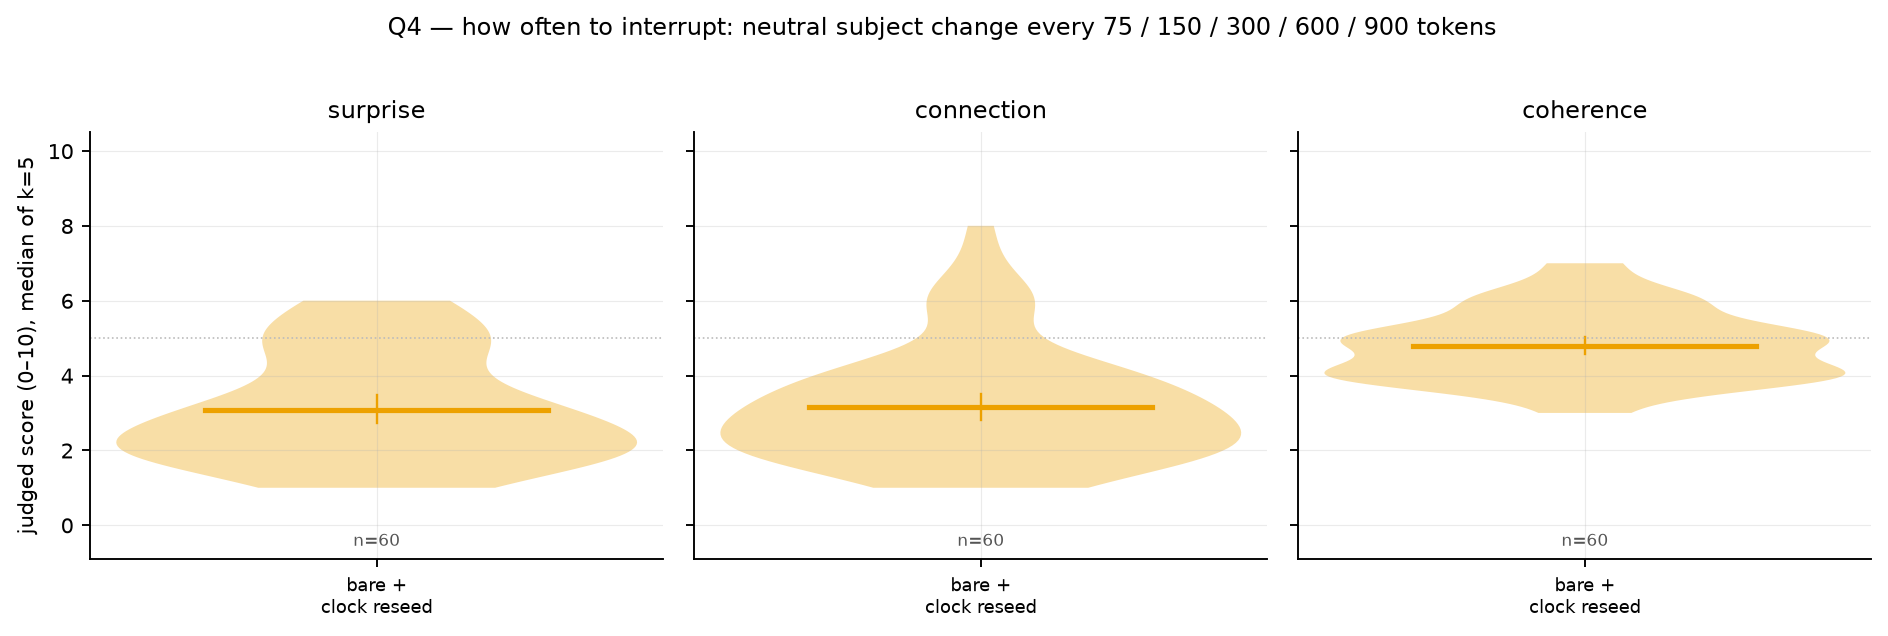
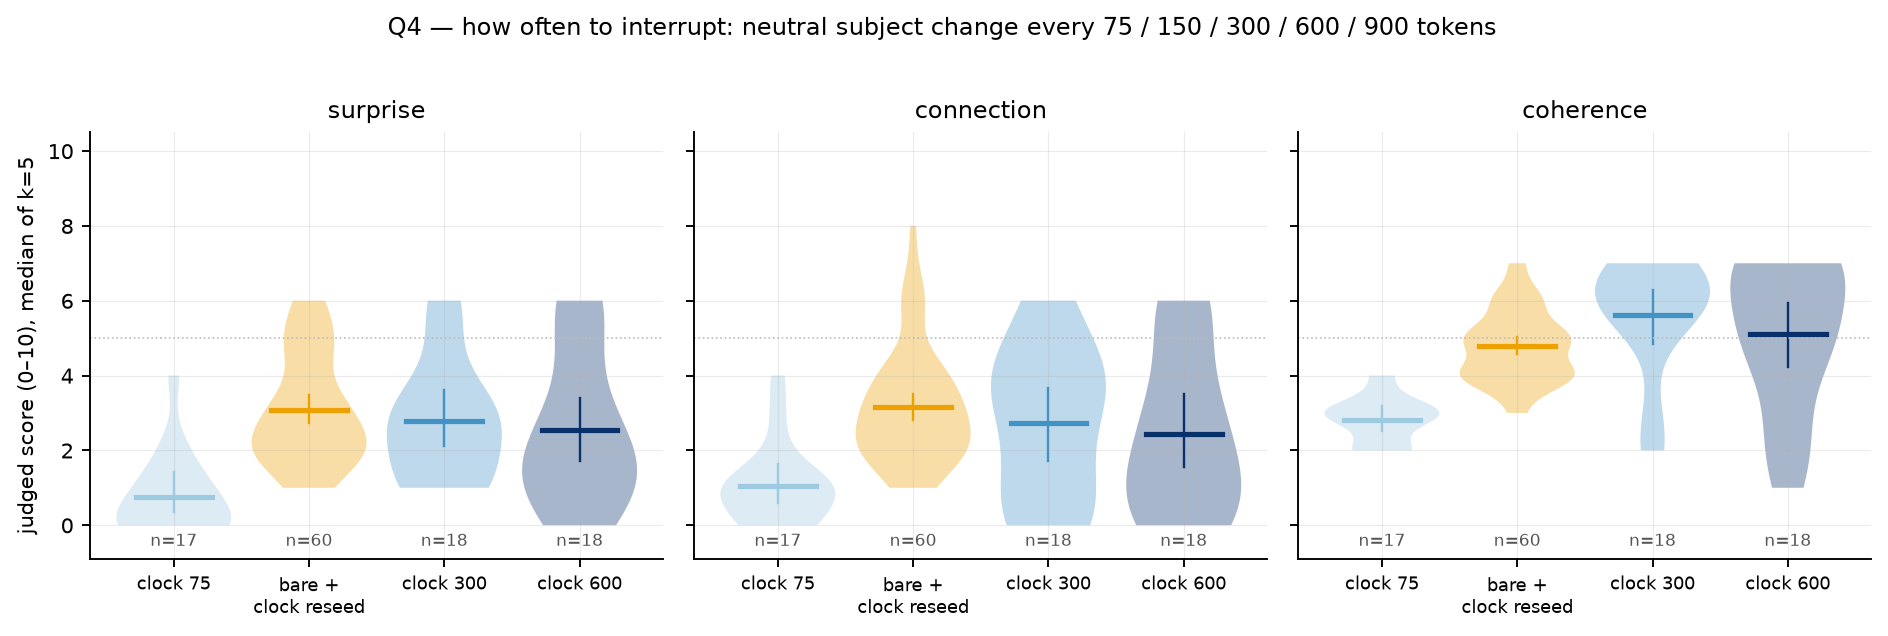
analysis_b2: phase within segment (tokens since last interruption), Q4b figure

diff --git a/scripts/analysis_b2.py b/scripts/analysis_b2.py
@@ -57,9 +57,28 @@ LABEL = {"bare": "bare", "bare_habit": "bare +\nhabituation", "bare_reseed": "ba
 def load(run: str):
     p = RUNS / run / "rejudge_surprise.json"
     rows = json.loads(p.read_text()) if p.exists() else []
+    cache = {}
     for r in rows:
         r["run"] = run
         r["seed"] = r["cell"].split("_", 1)[0]
+        # phase of the judged window: tokens since the last injection before its end (exact for cells with 'pos')
+        if r["cell"] not in cache:
+            rj = json.loads((RUNS / run / r["cell"] / "run.json").read_text())
+            inj_pos = sorted(x[2]["pos"] for x in rj.get("reseeds", []) if len(x) > 2 and isinstance(x[2], dict) and "pos" in x[2])
+            ev_pos = {(e["step"], e["kind"]): e.get("pos") for e in rj["events"]}
+            cache[r["cell"]] = (inj_pos, ev_pos)
+        inj_pos, ev_pos = cache[r["cell"]]
+        pos = ev_pos.get((r["step"], r["kind"]))
+        if not inj_pos:  # older cells: no positions recorded — use generated steps for both (drift cancels)
+            rj_steps = sorted(x[0] for x in json.loads((RUNS / run / r["cell"] / "run.json").read_text()).get("reseeds", []))
+            inj_pos, pos = rj_steps, r["step"]
+        r["since_injection"] = r["segment_len"] = None
+        if pos is not None and inj_pos:
+            before = [p_ for p_ in inj_pos if p_ < pos]
+            after = [p_ for p_ in inj_pos if p_ >= pos]
+            if before:
+                r["since_injection"] = pos - before[-1]
+                r["segment_len"] = (after[0] - before[-1]) if after else None
     return rows
 
 
@@ -185,6 +204,45 @@ def main() -> None:
           ("clock900", ("clock",), "every 900 (mid-segment)")]
     compare_table("Q4 — frequency of interruption (neutral seed)", q4, ref=1)
     violin_fig("fig8_q4_frequency.png", q4[:5], "Q4 — how often to interrupt: neutral subject change every 75 / 150 / 300 / 600 / 900 tokens")
+
+    # Q4b — phase: judged score vs tokens since the last injection, per frequency (all judged windows of the cell)
+    freq = [("clock75", 75), ("bare_reseed", 150), ("clock300", 300), ("clock600", 600), ("clock900", 900)]
+    md.append("\n### Q4b — phase within the segment: score by tokens since the last interruption (all judged windows, both kinds)\n")
+    md.append("| every | windows | pooled surprise | conn | coh | early (≤160 tokens since injection) S / C / H | late (>160) S / C / H |")
+    md.append("|---|---|---|---|---|---|---|")
+    fig, axes = plt.subplots(1, 2, figsize=(12, 3.8))
+    for cond, every in freq:
+        rows = [r for r in sel(cond) if r.get("since_injection") is not None]
+        if not rows:
+            continue
+        early = [r for r in rows if r["since_injection"] <= 160]
+        late = [r for r in rows if r["since_injection"] > 160]
+        f = lambda rs, d: f"{np.mean([r[d] for r in rs]):.2f}" if rs else "—"
+        md.append(f"| {every} | {len(rows)} | {f(rows,'surprise')} | {f(rows,'connection')} | {f(rows,'coherence')} | "
+                  f"{f(early,'surprise')} / {f(early,'connection')} / {f(early,'coherence')} (n={len(early)}) | "
+                  f"{f(late,'surprise')} / {f(late,'connection')} / {f(late,'coherence')} (n={len(late)}) |")
+        # binned curve
+        bins = [(0, 160), (160, 320), (320, 480), (480, 640), (640, 1000)]
+        xs, ys, es = [], [], []
+        for lo, hi in bins:
+            b = [r["surprise"] for r in rows if lo < r["since_injection"] <= hi]
+            if len(b) >= 3:
+                xs.append((lo + hi) / 2); ys.append(np.mean(b)); es.append(np.std(b) / np.sqrt(len(b)))
+        if xs:
+            axes[0].errorbar(xs, ys, yerr=es, fmt="-o", ms=4, capsize=2, color=PAL.get(cond, "#666"), label=f"every {every} (n={len(rows)})")
+        pooled = [r["surprise"] for r in rows]
+        axes[1].errorbar([every], [np.mean(pooled)], yerr=[np.std(pooled) / np.sqrt(len(pooled))], fmt="o", ms=6, capsize=3, color=PAL.get(cond, "#666"))
+        for d, mk in (("connection", "s"), ("coherence", "^")):
+            v = [r[d] for r in rows]
+            axes[1].errorbar([every], [np.mean(v)], yerr=[np.std(v) / np.sqrt(len(v))], fmt=mk, ms=5, capsize=2, color=PAL.get(cond, "#666"), alpha=0.6)
+    axes[0].set_xlabel("tokens since the last interruption (window end)"); axes[0].set_ylabel("judged surprise (mean ± s.e.)")
+    axes[0].set_title("surprise decays with distance from the interruption", fontsize=9); axes[0].legend(fontsize=7, frameon=False); axes[0].grid(alpha=0.25)
+    axes[1].set_xscale("log"); axes[1].set_xticks([75, 150, 300, 600, 900]); axes[1].set_xticklabels(["75", "150", "300", "600", "900"])
+    axes[1].set_xlabel("interruption period (tokens)"); axes[1].set_ylabel("mean over all judged windows"); axes[1].grid(alpha=0.25)
+    axes[1].set_title("● surprise  ■ connection  ▲ coherence, by period (all windows pooled)", fontsize=9)
+    fig.suptitle("Q4b — how often to interrupt: phase and period", fontsize=10)
+    fig.tight_layout(); fig.savefig(FIG / "fig8_q4b_phase.png", dpi=170, bbox_inches="tight"); plt.close(fig)
+    print("figure ->", FIG / "fig8_q4b_phase.png")
 
     out = DOCS / "APPENDIX_B2.md"
     out.write_text("\n".join(md) + "\n")

diff --git a/docs/APPENDIX_B2.md b/docs/APPENDIX_B2.md
@@ -1,6 +1,6 @@
 # Appendix — battery 2 (auto-generated by scripts/analysis_b2.py)
 
-553 judged windows total (291 from battery 2).
+662 judged windows total (400 from battery 2).
 
 
 ### Q1 — the confound: habituation without interruption
@@ -56,8 +56,8 @@ vs **neutral subject change (clock 150)** (Δ mean, 95% bootstrap CI over window
 | re-encounter on the clock (150) | 60 | cut | 2.28 ± 1.61 | 3.03 ± 1.97 | 4.30 ± 1.54 | 5/60 |
 | re-encounter on the clock (900; matched frequency) | 0 | — | — | — | — | 0/0 |
 | neutral change on the clock (900; matched frequency) | 0 | — | — | — | — | 0/0 |
-| re-encounter on salience events (event windows) | 15 | crystallize/cut/jump/recurrence | 4.00 ± 0.82 | 3.60 ± 1.45 | 3.47 ± 0.72 | 0/15 |
-| re-encounter on salience events (uniform windows) | 6 | clock | 3.50 ± 1.71 | 2.17 ± 1.77 | 5.17 ± 1.07 | 1/6 |
+| re-encounter on salience events (event windows) | 27 | crystallize/cut/jump/recurrence | 4.22 ± 0.79 | 3.30 ± 1.72 | 3.33 ± 0.77 | 0/27 |
+| re-encounter on salience events (uniform windows) | 12 | clock | 2.25 ± 2.05 | 1.42 ± 1.66 | 3.75 ± 1.74 | 1/12 |
 | re-encounter on the clock (900), uniform windows | 0 | — | — | — | — | 0/0 |
 | neutral change on the clock (900), uniform windows | 0 | — | — | — | — | 0/0 |
 | salience only, no injection (event windows) | 42 | crystallize/jump/recurrence | 2.74 ± 1.76 | 1.36 ± 1.36 | 3.71 ± 1.59 | 2/42 |
@@ -66,12 +66,12 @@ vs **re-encounter on the clock (150)** (Δ mean, 95% bootstrap CI over windows; 
 
 | condition | dim | Δ [CI] | δ | p | paired-by-seed Δ [CI] (n seeds) |
 |---|---|---|---|---|---|
-| re-encounter on salience events (event windows) | surprise | **+1.72 [+1.14, +2.29]** | +0.62 | 2.0e-04 | — |
-| re-encounter on salience events (event windows) | connection | +0.57 [-0.32, +1.47] | +0.15 | 3.7e-01 | — |
-| re-encounter on salience events (event windows) | coherence | **-0.83 [-1.38, -0.32]** | -0.30 | 6.8e-02 | — |
-| re-encounter on salience events (uniform windows) | surprise | +1.22 [+0.00, +2.82] | +0.36 | 1.5e-01 | — |
-| re-encounter on salience events (uniform windows) | connection | -0.87 [-2.08, +0.83] | -0.28 | 2.5e-01 | — |
-| re-encounter on salience events (uniform windows) | coherence | +0.87 [-0.02, +1.83] | +0.31 | 2.1e-01 | — |
+| re-encounter on salience events (event windows) | surprise | **+1.94 [+1.44, +2.44]** | +0.68 | 2.6e-07 | — |
+| re-encounter on salience events (event windows) | connection | +0.26 [-0.55, +1.08] | +0.06 | 6.8e-01 | — |
+| re-encounter on salience events (event windows) | coherence | **-0.97 [-1.46, -0.48]** | -0.35 | 7.3e-03 | — |
+| re-encounter on salience events (uniform windows) | surprise | -0.03 [-1.18, +1.23] | -0.06 | 7.4e-01 | — |
+| re-encounter on salience events (uniform windows) | connection | **-1.62 [-2.57, -0.48]** | -0.47 | 9.7e-03 | — |
+| re-encounter on salience events (uniform windows) | coherence | -0.55 [-1.57, +0.52] | -0.19 | 3.0e-01 | — |
 | salience only, no injection (event windows) | surprise | +0.45 [-0.20, +1.13] | +0.14 | 2.4e-01 | +0.61 [-0.26, +1.58] (10) |
 | salience only, no injection (event windows) | connection | **-1.68 [-2.31, -1.02]** | -0.49 | 1.8e-05 | -1.56 [-2.30, -0.77] (10) |
 | salience only, no injection (event windows) | coherence | -0.59 [-1.22, +0.03] | -0.19 | 9.1e-02 | -0.53 [-1.46, +0.34] (10) |
@@ -80,16 +80,40 @@ vs **re-encounter on the clock (150)** (Δ mean, 95% bootstrap CI over windows; 
 
 | condition | windows | kind | surprise | connection | coherence | good (S≥5&H≥5) |
 |---|---|---|---|---|---|---|
-| every 75 (before injection) | 0 | — | — | — | — | 0/0 |
+| every 75 (before injection) | 17 | cut | 0.76 ± 1.06 | 1.06 ± 1.06 | 2.82 ± 0.62 | 0/17 |
 | every 150 (before injection) | 60 | clock | 3.08 ± 1.48 | 3.15 ± 1.53 | 4.78 ± 0.95 | 12/60 |
-| every 300 (before injection) | 0 | — | — | — | — | 0/0 |
-| every 600 (before injection) | 0 | — | — | — | — | 0/0 |
+| every 300 (before injection) | 18 | cut | 2.78 ± 1.58 | 2.72 ± 1.99 | 5.61 ± 1.57 | 3/18 |
+| every 600 (before injection) | 18 | cut | 2.56 ± 1.98 | 2.44 ± 2.11 | 5.11 ± 1.94 | 3/18 |
 | every 900 (before injection) | 0 | — | — | — | — | 0/0 |
-| every 300 (mid-segment) | 0 | — | — | — | — | 0/0 |
-| every 600 (mid-segment) | 0 | — | — | — | — | 0/0 |
+| every 300 (mid-segment) | 18 | clock | 4.61 ± 1.38 | 3.56 ± 1.57 | 6.22 ± 0.79 | 10/18 |
+| every 600 (mid-segment) | 18 | clock | 4.50 ± 1.89 | 3.22 ± 1.99 | 6.33 ± 1.33 | 10/18 |
 | every 900 (mid-segment) | 0 | — | — | — | — | 0/0 |
 
 vs **every 150 (before injection)** (Δ mean, 95% bootstrap CI over windows; Cliff's δ; Mann-Whitney p; paired-by-seed Δ [CI]):
 
 | condition | dim | Δ [CI] | δ | p | paired-by-seed Δ [CI] (n seeds) |
 |---|---|---|---|---|---|
+| every 75 (before injection) | surprise | **-2.32 [-2.90, -1.68]** | -0.82 | 1.6e-07 | -2.12 [-2.67, -1.83] (3) |
+| every 75 (before injection) | connection | **-2.09 [-2.70, -1.45]** | -0.77 | 7.7e-07 | -1.94 [-2.33, -1.33] (3) |
+| every 75 (before injection) | coherence | **-1.96 [-2.33, -1.57]** | -0.91 | 3.6e-09 | -2.28 [-2.50, -1.83] (3) |
+| every 300 (before injection) | surprise | -0.31 [-1.08, +0.52] | -0.12 | 4.5e-01 | -0.17 [-0.83, +0.33] (3) |
+| every 300 (before injection) | connection | -0.43 [-1.39, +0.57] | -0.09 | 5.6e-01 | -0.33 [-1.67, +1.00] (3) |
+| every 300 (before injection) | coherence | +0.83 [+0.00, +1.54] | +0.48 | 1.6e-03 | +0.50 [-0.33, +2.00] (3) |
+| every 600 (before injection) | surprise | -0.53 [-1.48, +0.47] | -0.23 | 1.3e-01 | -0.39 [-0.83, +0.17] (3) |
+| every 600 (before injection) | connection | -0.71 [-1.71, +0.36] | -0.26 | 9.1e-02 | -0.61 [-1.17, -0.17] (3) |
+| every 600 (before injection) | coherence | +0.33 [-0.63, +1.21] | +0.22 | 1.4e-01 | +0.00 [-1.33, +1.17] (3) |
+| every 300 (mid-segment) | surprise | **+1.53 [+0.78, +2.28]** | +0.54 | 4.0e-04 | +1.67 [+1.50, +1.83] (3) |
+| every 300 (mid-segment) | connection | +0.41 [-0.39, +1.24] | +0.18 | 2.5e-01 | +0.50 [-0.17, +1.17] (3) |
+| every 300 (mid-segment) | coherence | **+1.44 [+1.01, +1.88]** | +0.72 | 1.7e-06 | +1.11 [+0.33, +2.00] (3) |
+| every 600 (mid-segment) | surprise | **+1.42 [+0.44, +2.36]** | +0.42 | 5.8e-03 | +1.56 [+0.83, +2.17] (3) |
+| every 600 (mid-segment) | connection | +0.07 [-0.89, +1.11] | -0.06 | 7.1e-01 | +0.17 [-0.83, +1.50] (3) |
+| every 600 (mid-segment) | coherence | **+1.55 [+0.83, +2.16]** | +0.71 | 3.2e-06 | +1.22 [+0.67, +2.17] (3) |
+
+### Q4b — phase within the segment: score by tokens since the last interruption (all judged windows, both kinds)
+
+| every | windows | pooled surprise | conn | coh | early (≤150 since injection) S / C / H | late (>150) S / C / H |
+|---|---|---|---|---|---|---|
+| 75 | 16 | 0.75 | 1.19 | 2.88 | 0.75 / 1.19 / 2.88 (n=16) | — / — / — (n=0) |
+| 150 | 60 | 3.08 | 3.15 | 4.78 | 3.08 / 3.15 / 4.78 (n=60) | — / — / — (n=0) |
+| 300 | 33 | 3.94 | 3.42 | 6.24 | 4.92 / 3.50 / 6.25 (n=12) | 3.38 / 3.38 / 6.24 (n=21) |
+| 600 | 33 | 3.82 | 3.09 | 6.09 | 5.67 / 3.33 / 6.17 (n=6) | 3.41 / 3.04 / 6.07 (n=27) |
